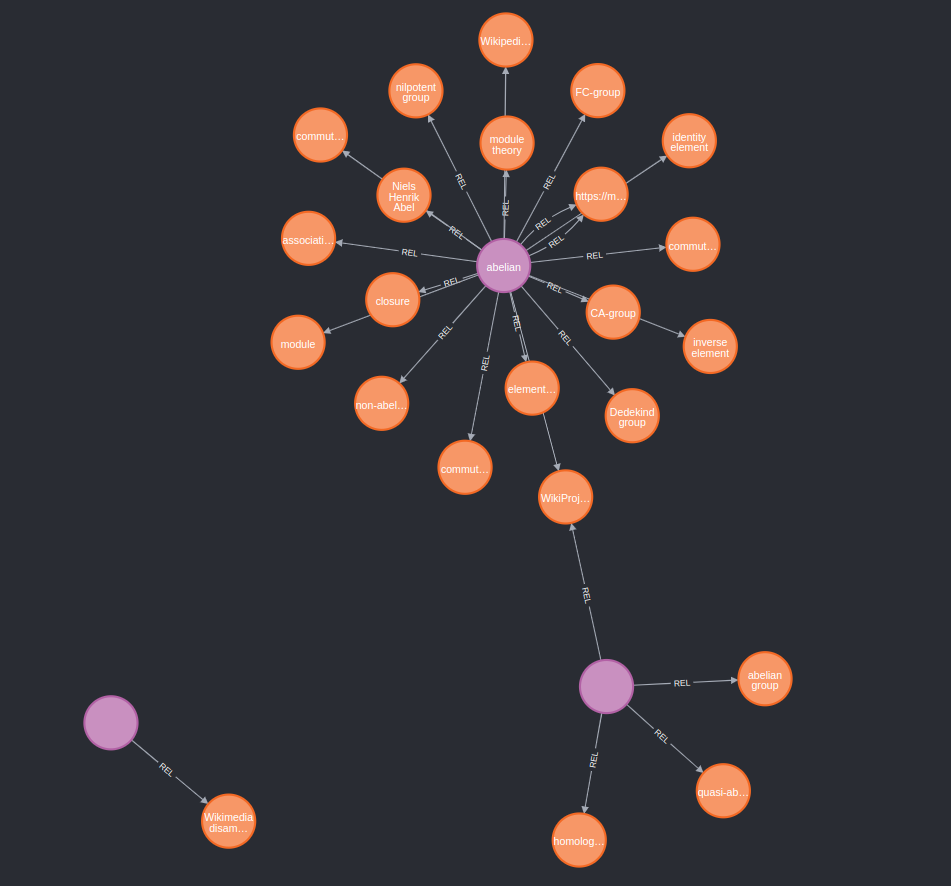
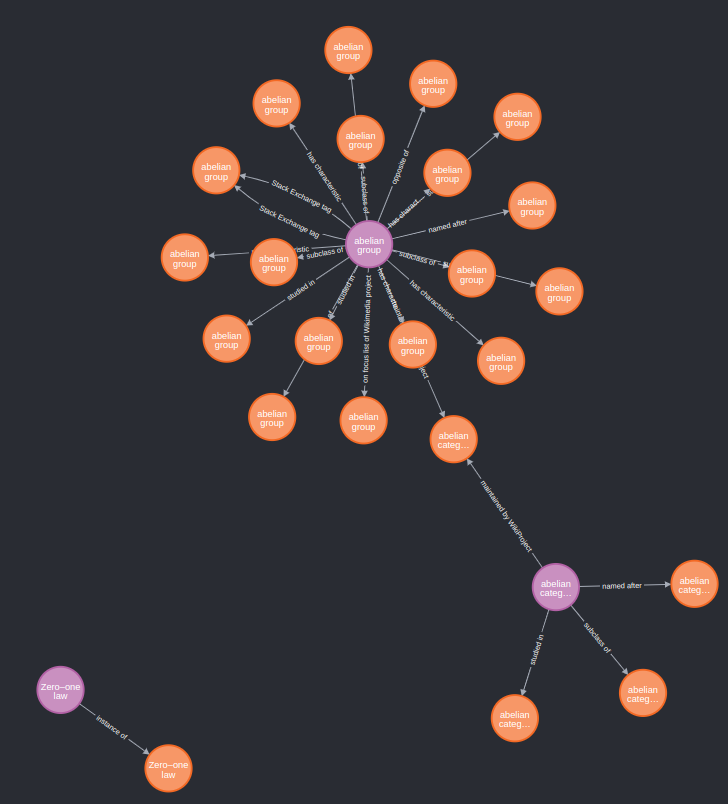
Updated graphs

diff --git a/scripts/build_graph.py b/scripts/build_graph.py
@@ -18,7 +18,7 @@ HEADERS = {
     'User-Agent': 'parmesan/0.3',
 }
 QUERY = """
-select distinct ?subject ?subjectLabel ?propertyLabel {
+select distinct ?itemLabel ?subject ?subjectLabel ?propertyLabel {
   {wd:%s owl:sameAs ?item} UNION { VALUES (?item) {(wd:%s)}}
   ?item ?predicate ?subject .
   ?property wikibase:directClaim ?predicate .
@@ -65,6 +65,7 @@ class GraphBuilder:
             subject = binding['subject']
             subjectLabel = binding['subjectLabel']
             label = binding['propertyLabel']
+            new_label = binding['itemLabel']['value']
             if subject['type'] == 'uri':
                 parsed = urlparse(subject['value'])
                 relations.append({
@@ -78,34 +79,36 @@ class GraphBuilder:
                     'value': subject['value'],
                 })
 
-        return (relations, properties)
+        return (relations, properties, new_label)
 
     @staticmethod
     def _create_term(tx, row):
+
+        (relations, new_props, new_label) = GraphBuilder.get_wikidata_relations(row["Wikidata ID"])
 
         term = tx.run("CREATE (term:Term) "
                "SET term.wikidata = $wikidata, "
                "term.chicago = $chicago, "
                "term.lean = $lean, "
                "term.mulima = $mulima, "
-               "term.nlab = $nlab "
+               "term.nlab = $nlab, "
+               "term.wikidata_label = $wikidata_label "
                "RETURN term",
             wikidata=row["Wikidata ID"],
+            wikidata_label=new_label,
             chicago=row["Chicago"],
             lean=row["Lean 4 Undergrad"],
             mulima=row["MuLiMa"],
             nlab=row["nLab"],
         ).single()
-
         term_id = term['term'].element_id
-        (relations, new_props) = GraphBuilder.get_wikidata_relations(row["Wikidata ID"])
 
         for relation in relations:
             tx.run("""
                 MATCH (term:Term {wikidata: $wikidata})
                 OPTIONAL MATCH (target {wikidata: $target})
                 FOREACH (a IN CASE WHEN target.wikidata IS NULL THEN [1] ELSE [] END |
-                    CREATE (term)-[:REL {label: $label}]->(ext:External {wikidata: $target, name: $name})
+                    CREATE (term)-[:REL {label: $label}]->(ext:External {wikidata: $target, name: $name, wikidata_label: $wikidata_label})
                 )
                 FOREACH (a IN CASE WHEN target.wikidata IS NULL THEN [] ELSE [1] END |
                     CREATE (term)-[:REL {label: $label}]->(target)
@@ -114,6 +117,7 @@ class GraphBuilder:
                 target=relation['target'],
                 label=relation['label'],
                 name=relation['name'],
+                wikidata_label=new_label,
             )
         for prop in new_props:
             tx.run("""
